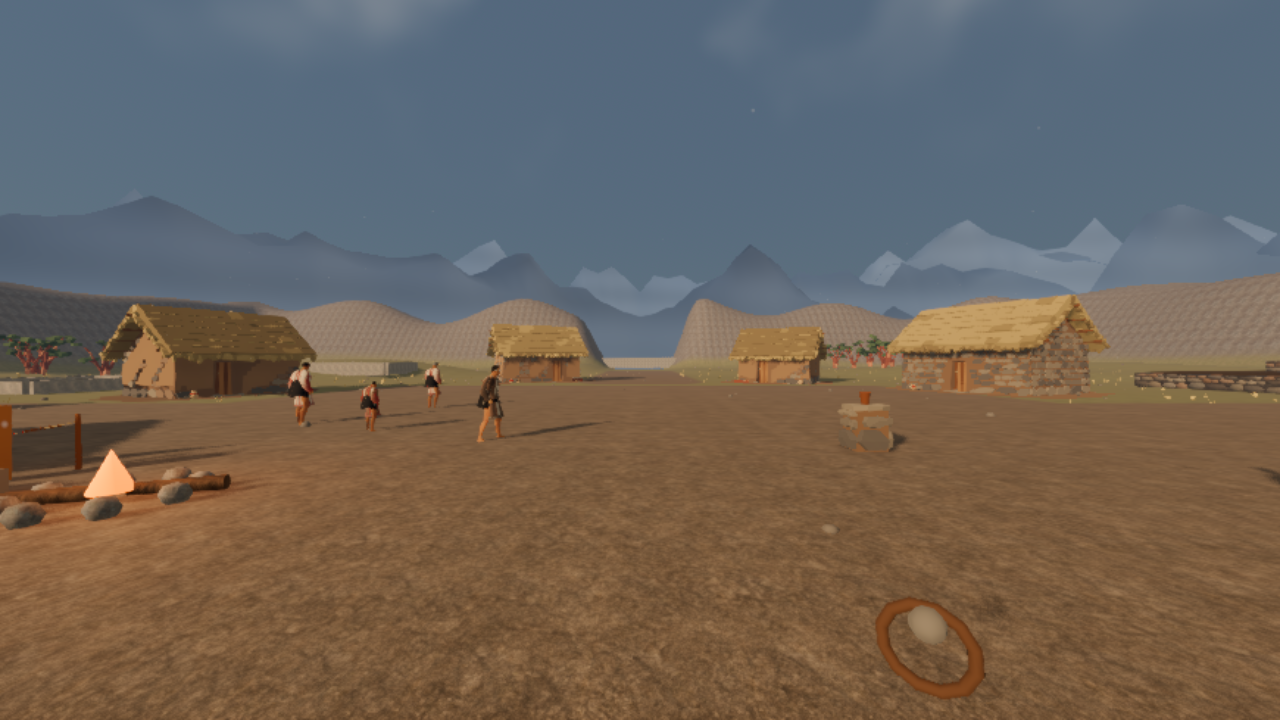
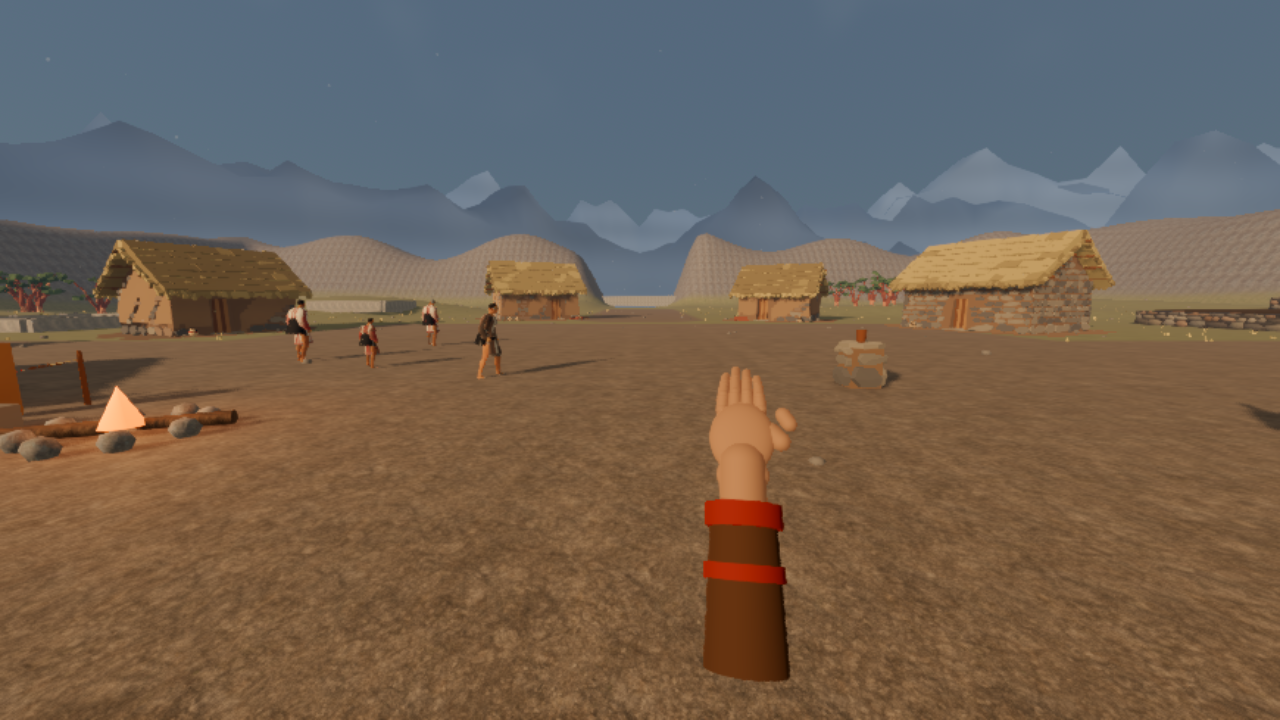
revision: arregla pista, tarjeta de fin y mano del arma

diff --git a/docs/05_plan_de_implementacion.md b/docs/05_plan_de_implementacion.md
@@ -123,7 +123,7 @@
 - **4.8 — Duración y equilibrio (abierto).** Falta la partida humana cronometrada. El registro de sesión marca cada acto y `tools/session_duration.py` resume el total; la suma de fichas da 45,5 min y la pasada guionizada 1:58, pero ninguna es una partida real.
 - **4.9 — Arte y audio por acto (abierto, en curso).** El pase visual corrigió las nubes, sustituyó las siluetas planas de montaña por bandas con volumen en la llacta y el Cusco, añadió estratos y nieve en las cumbres y dio más detalle al terreno. La [guía visual](../campaigns/01_pachacutec/documentation/guia_visual.md) fija la idea, la escala, las formas y una `PaletteTuning` por acto; las cinco capturas están en `documentation/img/guia_visual/`. El elenco ya tiene reposo, habla, trabajo, caminar, correr y manto simulado; la biblia excluye retratos y voces. Faltan texturas finas de roca, props de detalle y la mezcla de audio.
 - **4.10 — Rendimiento (cerrado el 2026-11-16).** Medición final de Medio a 1080p con las cordilleras, el shader aligerado y la escala 0,68: llacta 89,4, paso 93,4, Cusco 63,6, posguerra 97,5 y obra 90,5 FPS de mediana. Se mantuvo el SSAO. El Cusco es el acto más ajustado (63,2 en la peor pasada). El detalle está en [docs/08](08_entorno_y_rendimiento.md).
-- **4.12 — Elenco Quaternius (pulido abierto: fonemas y validación humana).** Todo el elenco usa los diez cuerpos UBC CC0 con clips UAL1/UAL2, ropa propia y texturas de cara; no queda elenco MakeHuman/Rocketbox. Los papeles sin modelo propio reutilizan arquetipos: Tejedora = Anca Q, Agricultor = Joven Q con chaquitaclla, HijoPuma = Joven Q a 1,20 m (sin base infantil gratuita en UBC Standard; decisión final), heridos y comitiva comparten Madre/Hermano/Joven. Se retiraron el híbrido Rocketbox, el injerto de cabeza MakeHuman y sus pruebas y capturas. La política de sombras (solo cuerpo y ropa) y el LOD de multitud por material dejan los cinco actos bajo el presupuesto: llacta 249 draw calls/222,3 MB, paso 244/162,8 MB, Cusco 288/230,8 MB, posguerra 226/222,8 MB y obra 257/217,5 MB. El manto tiene seis huesos y muelles, la mano en primera persona articula las falanges, la mandíbula abre la boca al hablar y los párpados y las cejas se animan. El Cusco es el acto más ajustado (69,4 FPS de mediana y p1 60,0 con carga 1,1–1,6); en una pasada aislada la media bajó a 53,8 y el p1 a 40,7. 138 pruebas, arena y arco completos. Detalle y capturas en [personajes_quaternius.md](../campaigns/01_pachacutec/documentation/personajes_quaternius.md).
+- **4.12 — Elenco Quaternius (pulido abierto: fonemas y validación humana).** Todo el elenco usa los diez cuerpos UBC CC0 con clips UAL1/UAL2, ropa propia y texturas de cara; no queda elenco MakeHuman/Rocketbox. Los papeles sin modelo propio reutilizan arquetipos: Tejedora = Anca Q, Agricultor = Joven Q con chaquitaclla, HijoPuma = Joven Q a 1,20 m (sin base infantil gratuita en UBC Standard; decisión final), heridos y comitiva comparten Madre/Hermano/Joven. Se retiraron el híbrido Rocketbox, el injerto de cabeza MakeHuman y sus pruebas y capturas. La política de sombras (solo cuerpo y ropa) y el LOD de multitud por material dejan los cinco actos bajo el presupuesto: llacta 248 draw calls/222,3 MB, paso 244/162,8 MB, Cusco 297/230,9 MB, posguerra 226/222,8 MB y obra 257/217,5 MB. El manto tiene seis huesos y muelles, la mano en primera persona articula las falanges y sostiene el arma con un puño, la mandíbula abre la boca al hablar y los párpados y las cejas se animan. El Cusco es el acto más ajustado (69,4 FPS de mediana y p1 60,0 con carga 1,1–1,6); en una pasada aislada la media bajó a 53,8 y el p1 a 40,7. 139 pruebas, arena y arco completos. Detalle y capturas en [personajes_quaternius.md](../campaigns/01_pachacutec/documentation/personajes_quaternius.md).
 - **4.11 — Sensación de combate (cerrado el 2026-11-16).** El ataque deja de ser instantáneo: `CombatLoadout` separa anticipación, ventana activa y recuperación; el impacto añade hitstop, golpe de cámara y destello; el escudo tiene parry de 0,15 s y bloqueo del 70 %; los chancas avisan el golpe con una esfera y comparten fichas de ataque (máximo dos a la vez); el cuerpo derribado deja de bloquear. La arena de `combat_arena_check.gd` resuelve tres enemigos con ≤ 2 atacantes. El registro está en [combat-tuning-log](combat-tuning-log.md).
 
 **Entregables:**

diff --git a/campaigns/01_pachacutec/documentation/personajes_quaternius.md b/campaigns/01_pachacutec/documentation/personajes_quaternius.md
@@ -76,7 +76,9 @@ la documentación del híbrido.
 - **Manto:** tres cadenas de dos huesos con muelles, cápsulas en pelvis y
   cintura. La multitud no simula muelles para no gastar CPU.
 - **Mano en primera persona:** malla propia con falanges articuladas; los dedos
-  se cierran al beber o golpear y se abren al ofrecer o soplar.
+  se cierran al beber o golpear y se abren al ofrecer o soplar. La honda y la
+  porra se sostienen con un puño de bloqueo con manga, para que no floten en la
+  esquina de la cámara; la mano articulada queda para las interacciones.
 - **Mandíbula de habla:** el hueso `Jaw` mueve el labio inferior, el mentón y
   la barba mientras suena `talk`. Es animación de habla, no fonemas ni
   sincronía labial completa.
@@ -98,15 +100,16 @@ Medición con el set Q completo, sin bandera. Tres pasadas por acto con carga
 
 | Acto | Draw calls | Memoria de vídeo | FPS medio | p1 |
 |---|---|---|---|---|
-| I — Llacta | 249 | 222,3 MB | 95,4 | 73,8 |
+| I — Llacta | 248 | 222,3 MB | 95,4 | 73,8 |
 | II — Paso | 244 | 162,8 MB | 119,7 | 110,0 |
-| III — Cusco | 288 | 230,8 MB | 69,4 | 60,0 |
+| III — Cusco | 297 | 230,9 MB | 69,4 | 60,0 |
 | IV — Posguerra | 226 | 222,8 MB | 107,4 | 97,6 |
 | V — Obra | 257 | 217,5 MB | 101,7 | 98,3 |
 
 Los cinco actos cumplen el presupuesto de **≤ 350 draw calls**. Son tres pasadas
 por acto con carga 1,1–1,6 y se publica la mediana. La chaquitaclla del
-Agricultor añade 1 draw call a la llacta (248→249); el resto no cambia. El
+Agricultor añade 1 draw call; el puño que sostiene el arma suma unos 9 en
+primera persona y deja la llacta en 248 y el Cusco en 297. El
 desglose del Cusco mostró que la multitud pesaba 173 draw calls y el pase de
 sombra 266; el LOD por material y la política de sombras los dejan en torno a
 100 y 140. El Cusco es el acto más ajustado (69,4 FPS de media, p1 60,0); en una
@@ -146,6 +149,7 @@ La identidad viene de la ropa, el pelo, la paleta y la silueta:
 | Curaca de cerca | ![Curaca de cerca](img/personajes/curaca_close_q.png) |
 | Curaca parpadeando | ![Curaca parpadeando](img/personajes/curaca_blink_q.png) |
 | Curaca con las cejas alzadas | ![Curaca con las cejas alzadas](img/personajes/curaca_brows_q.png) |
+| Arma en primera persona | ![Arma en primera persona](img/personajes/arma_q.png) |
 | Mensajero | ![Mensajero](img/personajes/mensajero_q.png) |
 | Chanca | ![Chanca](img/personajes/chanca_q.png) |
 | Mujer mayor | ![Mujer mayor](img/personajes/anciana_q.png) |
@@ -197,6 +201,9 @@ habla, chaquitaclla del Agricultor, arena y arco completo.
   pero no hay fonemas ni sincronía labial; la cara sigue siendo una textura
   sobre la malla UBC. Una sincronía labial completa requiere shape keys o una
   malla facial nueva.
+- **Mano del arma:** es un puño de bloqueo, no la mano articulada; no hay IK ni
+  agarre individual de dedos. A distancia de juego se lee, de cerca es
+  geométrico.
 - Validación humana: movimiento, diálogo, combate y lectura a distancia con el
   elenco completo.
 
@@ -210,7 +217,7 @@ godot --headless --path . --script res://tests/arc_playthrough.gd
 python3 tools/check_gdscript_limits.py
 ```
 
-Resultados: **138 pruebas, 0 fallos**; arena (`resolved=3`, `max_attackers=1`)
+Resultados: **139 pruebas, 0 fallos**; arena (`resolved=3`, `max_attackers=1`)
 y `ARCO_OK` con el set Q; importación sin errores ni advertencias de `res://`.
 Las pruebas recorren los diez modelos, las diez texturas de cara y el catálogo
 de todos los papeles.

diff --git a/campaigns/01_pachacutec/documentation/README.md b/campaigns/01_pachacutec/documentation/README.md
@@ -51,7 +51,7 @@ Clasificación según [docs/07_convenciones_historicas.md](../../../docs/07_conv
 
 ## 6. Estado de construcción
 
-La campaña se juega de principio a fin con blockout y materiales propios: los actos I–V encadenan llacta, paso, Cusco, posguerra y reconstrucción. El acto I tiene intro, elenco, encargos con recursos, duda, mensajero y asamblea; el II añade marcha, campamento, emboscada, llegada y preparación; el III tiene trampa, tres oleadas y costo con nombre; el IV añade cuentas y asamblea con Palabra; el V reconstruye cinco obras, incluida la casa de Rumi, y cierra con variantes. El guion y el guion de escenas están cerrados y las 138 pruebas pasan. El combate tiene fases de golpe, parry, hitstop, aviso enemigo y fichas de ataque; la guía visual fija la paleta de los cinco actos. El elenco es Quaternius: diez personajes cubren todos los papeles con texturas de rostro propias y textiles andinos, UAL2, texturas compartidas y estática fusionada. No queda elenco MakeHuman/Rocketbox ni bandera de selección. La llacta mide 249 draw calls y 222,3 MB; el Cusco 288/230,8 MB; los cinco actos cumplen el presupuesto de 350. El Agricultor tiene su chaquitaclla plantada en la terraza; el manto se mece con muelles, la mano en primera persona articula las falanges y la mandíbula abre la boca al hablar y los párpados y las cejas se animan. Falta rematar el pase de arte (texturas finas de roca y props), la mezcla de audio escuchada, el equilibrio y la partida humana cronometrada.
+La campaña se juega de principio a fin con blockout y materiales propios: los actos I–V encadenan llacta, paso, Cusco, posguerra y reconstrucción. El acto I tiene intro, elenco, encargos con recursos, duda, mensajero y asamblea; el II añade marcha, campamento, emboscada, llegada y preparación; el III tiene trampa, tres oleadas y costo con nombre; el IV añade cuentas y asamblea con Palabra; el V reconstruye cinco obras, incluida la casa de Rumi, y cierra con variantes. El guion y el guion de escenas están cerrados y las 139 pruebas pasan. El combate tiene fases de golpe, parry, hitstop, aviso enemigo y fichas de ataque; la guía visual fija la paleta de los cinco actos. El elenco es Quaternius: diez personajes cubren todos los papeles con texturas de rostro propias y textiles andinos, UAL2, texturas compartidas y estática fusionada. No queda elenco MakeHuman/Rocketbox ni bandera de selección. La llacta mide 248 draw calls y 222,3 MB; el Cusco 297/230,9 MB; los cinco actos cumplen el presupuesto de 350. El Agricultor tiene su chaquitaclla plantada en la terraza; el manto se mece con muelles, la mano en primera persona articula las falanges y sostiene el arma con un puño, la mandíbula abre la boca al hablar y los párpados y las cejas se animan. Falta rematar el pase de arte (texturas finas de roca y props), la mezcla de audio escuchada, el equilibrio y la partida humana cronometrada.
 
 ## 7. Notas de producción
 

diff --git a/docs/bitacora.md b/docs/bitacora.md
@@ -12,6 +12,7 @@ La bitácora **no es una fuente de verdad**: no crea reglas ni prevalece sobre `
 | HijoPuma sin base infantil | Se revisa el pack UBC Standard: solo incluye los cuerpos Superhero (hombre y mujer); Regular/Teen son de la versión Source de pago, no usada. No hay base infantil gratuita compatible con el rig Q y no se mezcla otro set. Se cierra la decisión con el Joven Q a 1,20 m y una prueba de altura. 135 pruebas | — |
 | Mano articulada y manto con muelles | Los diez GLB Q pasan a 71 huesos: 65 de UBC más 6 de manto (`Cape_L/C/R_1/2`) con pesos en el paño. `NpcActor` y `CharacterModelVisual` montan `SpringBoneSimulator3D` con cápsulas en pelvis y cintura; la multitud no simula muelles. La mano en primera persona articula las falanges y cierra el puño al golpear. Capturas y medición nuevas: llacta 249 draw calls/222,3 MB y 101,7 FPS; Cusco 288/230,8 MB y 70,6 FPS. 136 pruebas | — |
 | Mandíbula de habla | Se añade el hueso `Jaw` (72 huesos: 65 UBC + 6 de manto + 1 mandíbula) y se reparte el labio inferior, el mentón y la barba entre `Head` y `Jaw`. `CharacterFace` abre y cierra la boca mientras suena `talk`; la multitud no anima la cara. Es animación de habla, no fonemas ni parpadeo. 137 pruebas | — |
+| Revisión general: HUD y puño del arma | La pista superior baja a 72–114 px para no quedar bajo la banda de 64 px; la tarjeta de fin espera 0,35 s antes de mostrar el texto y lo desvanece con el fondo; la honda y la porra llevan un puño de bloqueo con manga. Se extrae `HudText.reading_seconds` para que `hud.gd` no crezca (612 líneas). 139 pruebas; draw calls llacta 248, Cusco 297. | — |
 | Parpadeo y cejas | Los diez GLB Q pasan a 76 huesos (65 UBC + 6 de manto + 1 mandíbula + 4 de expresión). `Blink_L/R` baja el párpado superior y `Brow_L/R` alza la ceja; `CharacterFace` parpadea cada 2,8–6,2 s y alza las cejas al hablar, también en la multitud. Se corrige el uso de `set_bone_pose_position`, que es absoluto en el esqueleto y no un desplazamiento. Capturas nuevas `curaca_blink` y `curaca_brows`. 138 pruebas | — |
 
 ## 2026-11-17

diff --git a/docs/08_entorno_y_rendimiento.md b/docs/08_entorno_y_rendimiento.md
@@ -158,18 +158,20 @@ Resultado con el elenco Q completo:
 
 | Acto | Draw calls | Memoria de vídeo | FPS medio | p1 |
 |---|---|---|---|---|
-| I — Llacta | 249 | 222,3 MB | 95,4 | 73,8 |
+| I — Llacta | 248 | 222,3 MB | 95,4 | 73,8 |
 | II — Paso | 244 | 162,8 MB | 119,7 | 110,0 |
-| III — Cusco | 288 | 230,8 MB | 69,4 | 60,0 |
+| III — Cusco | 297 | 230,9 MB | 69,4 | 60,0 |
 | IV — Posguerra | 226 | 222,8 MB | 107,4 | 97,6 |
 | V — Obra | 257 | 217,5 MB | 101,7 | 98,3 |
 
 Los cinco actos cumplen el presupuesto de **≤ 350 draw calls**. Son tres pasadas
 por acto con carga 1,1–1,6; se publica la mediana. La chaquitaclla del
-Agricultor añade 1 draw call a la llacta (248→249). El Cusco es el acto más
-ajustado (69,4 FPS de media y p1 60,0); el resto supera 60 FPS con holgura. En
-una pasada aislada del Cusco la media bajó a 53,8 y el p1 a 40,7; se vigila al
-añadir arte final.
+Agricultor añade 1 draw call; el puño que sostiene el arma suma unos 9 en
+primera persona. La revisión del 2026-11-18 midió llacta 247–248 y Cusco 297
+con carga 12–23; los FPS de la tabla son de la pasada en reposo anterior. El
+Cusco es el acto más ajustado (69,4 FPS de media y p1 60,0); el resto supera
+60 FPS con holgura. En una pasada aislada del Cusco la media bajó a 53,8 y el
+p1 a 40,7; se vigila al añadir arte final.
 
 **Línea base de Medio (2026-11-16):** medido sobre el arco nuevo el 2026-11-16 en la GPU integrada de referencia (Intel UHD 770), a 1920 × 1080, sin vsync y con el estado de campaña limpio entre actos. La herramienta es `tests/scenes/measure_performance.tscn`: calienta 60 fotogramas y muestrea 300, con FPS medio y p1 (percentil 99 del tiempo de fotograma). La tabla es la medición final del 2026-11-16, con las cordilleras con volumen, el shader aligerado y la escala 3D de Medio en 0,68. El Medio se midió con carga 1,8–2,7 y el Bajo con carga 1,6–3,8.
 

diff --git a/docs/06_estrategia_de_pruebas.md b/docs/06_estrategia_de_pruebas.md
@@ -250,5 +250,6 @@ tiempos de carga de escena quedan dentro del acto que empieza.
 | 2026-11-18 | Mano articulada y manto con muelles | `pch_quaternius.py`, `run_tests.gd`, `capture_quaternius.tscn` y `measure_performance.tscn` | 136 pruebas, 0 fallos; diez GLB con 71 huesos (65 UBC + 6 de manto); mano con falanges que se cierran; llacta 249 draw calls/222,3 MB y 101,7 FPS; Cusco 288/230,8 MB y 70,6 FPS |
 | 2026-11-18 | Mandíbula de habla | `pch_quaternius.py`, `run_tests.gd` y `capture_quaternius.tscn` | 137 pruebas, 0 fallos; diez GLB con 72 huesos (65 UBC + 6 de manto + 1 mandíbula); la boca se abre con el clip `talk`; sin fonemas, cejas animadas ni parpadeo |
 | 2026-11-18 | Parpadeo y cejas | `pch_quaternius.py`, `character_face.gd`, `run_tests.gd` y `capture_quaternius.tscn` | 138 pruebas, 0 fallos; diez GLB con 76 huesos; `Blink_L/R` cierra el párpado y `Brow_L/R` alza la ceja; la multitud parpadea; sin fonemas |
+| 2026-11-18 | Revisión general: HUD y puño del arma | `hud.gd`, `hud_text.gd`, `first_person_weapon.gd`, `run_tests.gd`, `capture_quaternius.tscn` y `measure_performance.tscn` | 139 pruebas, 0 fallos; la pista baja de la banda cinematográfica; el texto de la tarjeta de fin espera al fondo oscuro y no deja la pista detrás; la honda y la porra se sostienen con un puño de bloqueo (+9 draw calls en primera persona); Cusco 297, llacta 248 |
 
 Cada entrega añade una fila con el alcance, el comando y el resultado.
